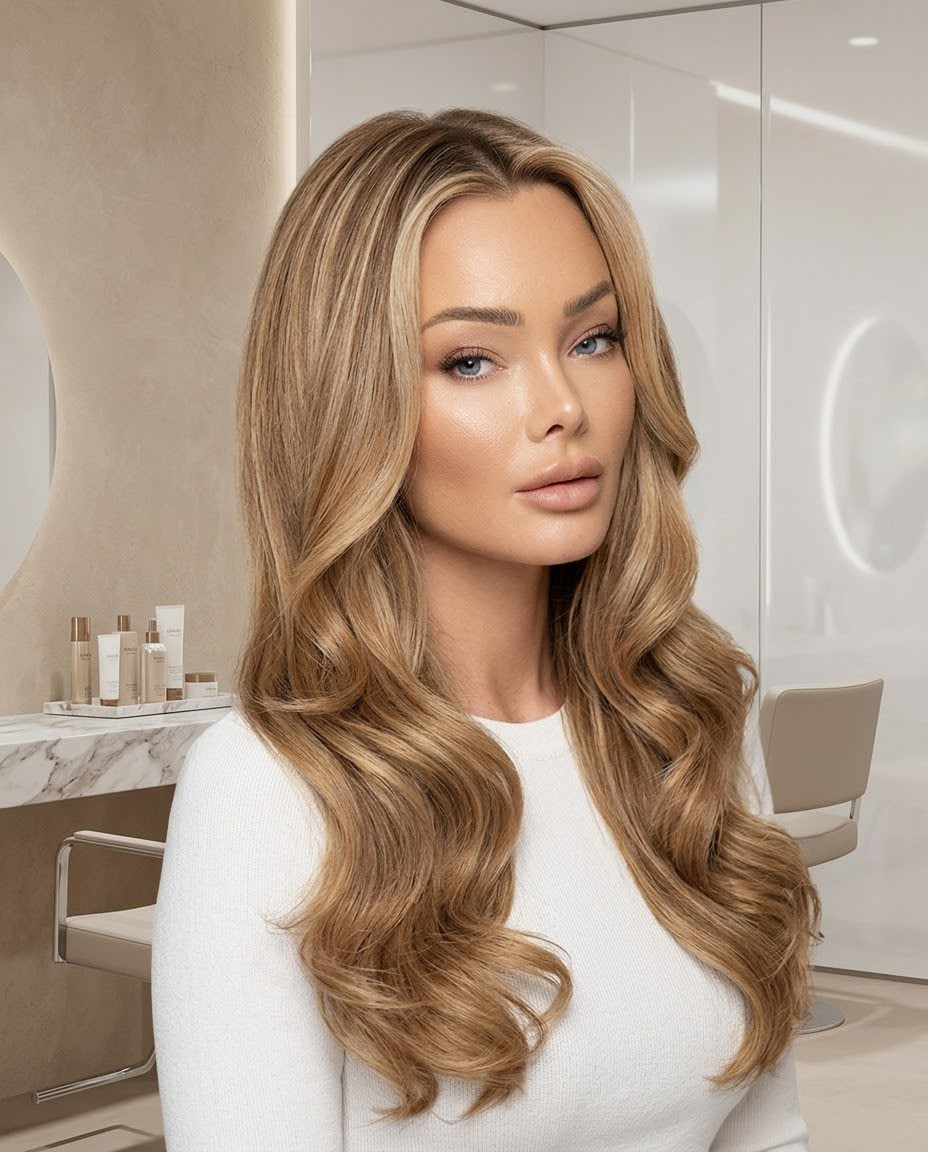
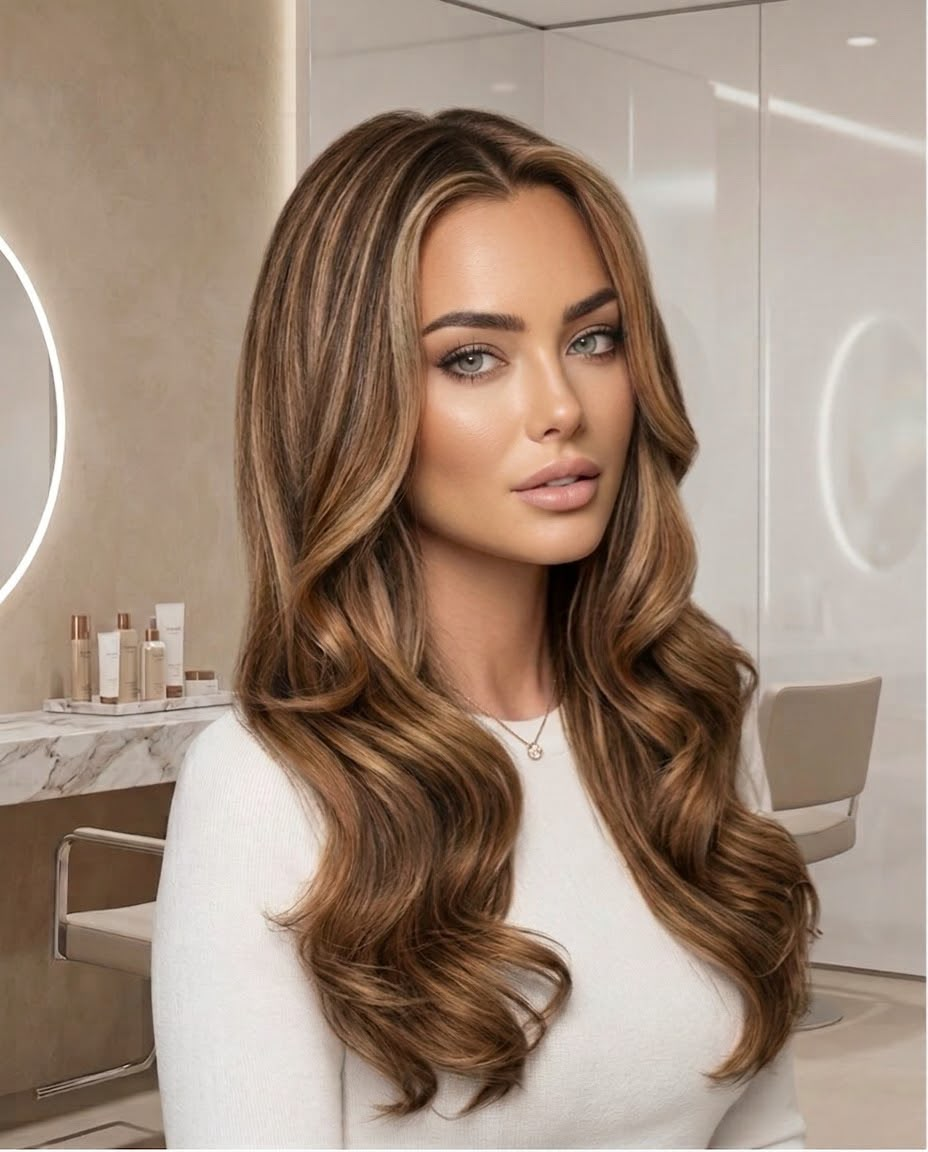
Haircut during an extensions fitting, and stop quoting 500 NOK for it
A haircut can be added to either extensions tier. The appointment does not
get longer: the cut happens while the fitting is already under way, and
shaping the new length is part of the job.

That exposed a real pricing fault. Hair Extensions (100-150g) is quoted at
consultation and carries no figure, so adding the haircut's 500 to nothing
produced "From 500 NOK" - the site was telling a client an extensions
fitting cost five hundred kroner. A service with no price of its own now
says so: "Price on consultation" alone, and "500 NOK + price on
consultation" once something priced is added to it.

Team cards reverted to how they were: two columns on a phone, a short line
on the card, and the full paragraph on a tap. The clamp is back with it -
it was only removed because nothing could reach the hidden text, and the
dialog does that now.

Also carries the replaced balayage cover.

diff --git a/js/booking.js b/js/booking.js
@@ -247,7 +247,11 @@ function expectedTotal() {
   const svc = state.service;
   let total = 0;
   let isEstimate = false;
-  if (!svc) return { total, isEstimate };
+  if (!svc) return { total, isEstimate, unpricedBase: false };
+  // A service quoted only at consultation contributes no figure at all. Adding
+  // its add-ons to zero and printing the result told a client that Hair
+  // Extensions (100-150g) with a haircut costs 500 NOK.
+  const unpricedBase = !!svc.price_on_consultation && svc.price_from == null;
   total += Number(svc.price_from) || 0;
   if (svc.price_on_consultation || svc.price_is_from || svc.price_to != null) isEstimate = true;
   state.addons.forEach((a) => {
@@ -257,13 +261,21 @@ function expectedTotal() {
     total += Number(a.price) || 0;
     if (a.price_is_from) isEstimate = true;
   });
-  return { total, isEstimate };
+  return { total, isEstimate, unpricedBase };
 }
 
-function totalLabel({ total, isEstimate }) {
+function totalLabel({ total, isEstimate, unpricedBase }) {
+  const no = lang() === 'no';
+  // Nothing to add to, so say what is actually known: the add-ons cost this
+  // much, and the service itself is quoted at the consultation.
+  if (unpricedBase) {
+    const words = no ? 'pris etter konsultasjon' : 'price on consultation';
+    if (!total) return no ? 'Pris etter konsultasjon' : 'Price on consultation';
+    return fmtPrice(total) + (no ? ' + ' : ' + ') + words;
+  }
   const num = fmtPrice(total);
   if (!isEstimate) return num;
-  return (lang() === 'no' ? 'Fra ' : 'From ') + num;
+  return (no ? 'Fra ' : 'From ') + num;
 }
 
 // Mirrors supabase/migrations/0002_seed_data.sql, which is itself a
@@ -293,8 +305,8 @@ const FALLBACK_SERVICES = [
   // Bridal — quoted at consultation, with ~4,000 shown as a guideline.
   { id: 'svc-bridal', name: 'Bridal Hair', name_no: 'Brudehår', category: 'Bridal', price_from: 4000, price_on_consultation: true, duration_minutes: 240, fixed_times: ['11:00'], image_url: './html/Pics/Covers/bridal-and-updos.jpeg', staff: STAFF_GENERAL },
   // Not on the printed list, but still booked here.
-  { id: 'svc-ext-50', name: 'Hair Extensions (50g)', name_no: 'Extensions (50g)', category: 'Hair Extensions', price_from: 3000, duration_minutes: 180, image_url: './html/Pics/Covers/hair-extensions.jpeg', staff: STAFF_HASSAN, requiresConsultation: true },
-  { id: 'svc-ext-100', name: 'Hair Extensions (100-150g)', name_no: 'Extensions (100-150g)', category: 'Hair Extensions', price_on_consultation: true, duration_minutes: 240, image_url: './html/Pics/Covers/hair-extensions.jpeg', staff: STAFF_HASSAN, requiresConsultation: true },
+  { id: 'svc-ext-50', name: 'Hair Extensions (50g)', name_no: 'Extensions (50g)', category: 'Hair Extensions', price_from: 3000, duration_minutes: 180, image_url: './html/Pics/Covers/hair-extensions.jpeg', staff: STAFF_HASSAN, requiresConsultation: true, addons: [ADDON_HAIRCUT] },
+  { id: 'svc-ext-100', name: 'Hair Extensions (100-150g)', name_no: 'Extensions (100-150g)', category: 'Hair Extensions', price_on_consultation: true, duration_minutes: 240, image_url: './html/Pics/Covers/hair-extensions.jpeg', staff: STAFF_HASSAN, requiresConsultation: true, addons: [ADDON_HAIRCUT] },
   { id: 'svc-keratin', name: 'Keratin Treatment', name_no: 'Keratinbehandling', category: 'Keratin & Hair Treatments', price_on_consultation: true, duration_minutes: 150, image_url: './html/Pics/Covers/keratin-and-treatments.jpeg', ...EXTERNAL_TANIYA },
   { id: 'svc-botox', name: 'Hair Botox', name_no: 'Hår Botox', category: 'Keratin & Hair Treatments', price_on_consultation: true, duration_minutes: 120, image_url: './html/Pics/Covers/keratin-and-treatments.jpeg', ...EXTERNAL_TANIYA },
   { id: 'svc-consultation', name: 'Consultation', name_no: 'Konsultasjon', category: 'Consultation', price_from: 0, duration_minutes: 10, image_url: './html/Pics/Covers/haircuts-and-styling.jpeg', staff: STAFF_GENERAL, consultationRule: true },

diff --git a/css/team-page.css b/css/team-page.css
@@ -474,35 +474,13 @@ body.bio-modal-open { overflow: hidden; }
 
    Capped rather than unlimited: a very long bio still stops before it can
    push the Book button off the bottom of the card. */
+/* Clamped again on purpose. The card shows an opening line and the whole bio
+   opens when the photo is tapped, so nothing is unreachable - which was the
+   only reason to unclamp it. */
 .team-card-bio {
-  -webkit-line-clamp: unset;
-  display: block;
-  overflow: visible;
-}
-@media (max-width: 560px) {
-  .team-card-featured .team-card-bio { -webkit-line-clamp: unset; display: block; overflow: visible; }
+  -webkit-line-clamp: 3;
 }
 
-/* ── ONE COLUMN ON A PHONE ──
-   Two columns at 390px gives each card 164px of width. A 137-character bio
-   takes thirteen lines in that, the role chip wraps onto three, and the name
-   sits above a column of single words. One column gives each card the full
-   width and the same bio settles at five or six lines.
-
-   The last-card span rule below only makes sense with two columns beside each
-   other, so it is scoped away from here - at one column it was setting an odd
-   card to half width. */
-@media (max-width: 560px) {
-  .team-page-grid { grid-template-columns: minmax(0, 1fr); gap: 0.9rem; }
-  .team-page-grid > .team-card-app:last-child:nth-child(2n+1) {
-    grid-column: auto;
-    max-width: none;
-  }
-  .team-card-bio { font-size: 0.76rem; }
 }
 
-/* Three columns at tablet width gave each card 224px, which pushed the bios
-   to nine lines. Two columns until there is genuinely room for three. */
-@media (min-width: 561px) and (max-width: 899px) {
-  .team-page-grid { grid-template-columns: repeat(2, minmax(0, 1fr)); }
 }

diff --git a/js/team.js b/js/team.js
@@ -86,7 +86,7 @@ function cardHtml(member) {
 // the grid or gets clipped mid-sentence by a line-clamp, and a bio cut off at
 // "I am passionate..." reads worse than no bio at all. So the card carries a
 // sentence that stands on its own, and the rest is a tap away.
-const SHORT_BIO_CHARS = 380;
+const SHORT_BIO_CHARS = 165;
 // Only worth cutting when there is a real amount left over. Truncating a bio
 // for the sake of seven characters costs a "Read more" and an ellipsis and
 // saves nothing, so a bio has to overrun by a clear margin before it is
